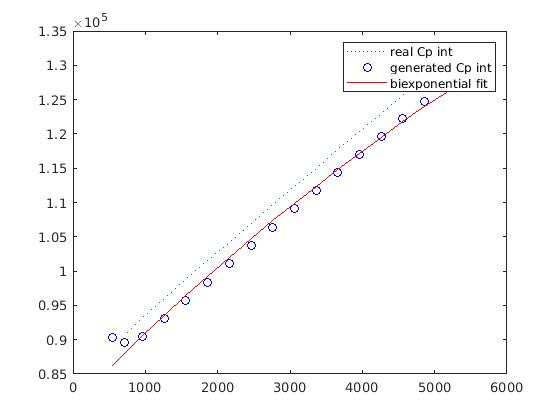
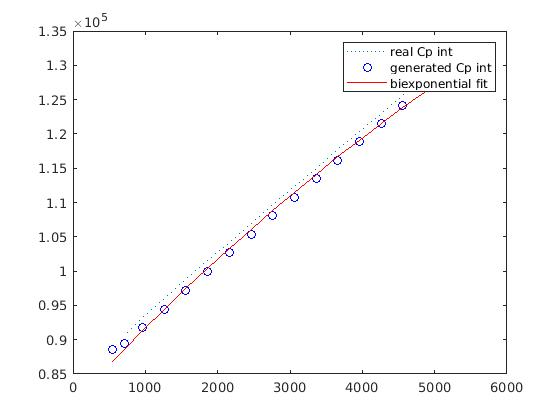
minor changes

Changed region(s): [[0.2732, 0.2167, 0.7893, 0.7738], [0.1821, 0.8048, 0.2429, 0.8667], [0.2429, 0.7738, 0.2732, 0.8048]]

diff --git a/IterativeAlgo/nihms.m b/IterativeAlgo/nihms.m
@@ -9,7 +9,7 @@ fullTAC = dlmread(TACpath, '\t', 1, 0);
 startTimes = fullTAC(:, 1);
 endTimes = fullTAC(:, 2);
 TAC = fullTAC(:, regions); %the 6 brain regions
-TACint = cumsum((endTimes - startTimes) .* TAC);
+TACint = cumsum((endTimes - startTimes) .* TAC); %integrate
 TAC = TAC(startingFrame:end, :);
 TACint = TACint(startingFrame:end, :);
 
@@ -38,11 +38,12 @@ ISAresult = ISAresult + auc - ISAresult(1);
 [iterResult, Vt] = IterativeAlgorithm(TAC, TACint, ISAresult);
 
 if showGraphs
-    %Fit curve with biexponential model
+    %Fit curve with biexponential model'
+    CpTimes = (startTimes(6:end) + endTimes(6:end)) / 2;
     times = (startTimes(startingFrame:end) + endTimes(startingFrame:end)) / 2;
 
-    [results, error] = fit2E(iterResult, times, singleBloodDraw, bloodDrawTime, ...
-        bloodDrawErrFactor);
+%     [results, error] = fit2E(iterResult, times, singleBloodDraw, bloodDrawTime, ...
+%         bloodDrawErrFactor);
 
     
     %%% Display data...
@@ -50,17 +51,17 @@ if showGraphs
     sourceCpInt = cumtrapz(sourceCp(:, 1), sourceCp(:, 2));
     % Where to start intCp calculation?
 
-    CpIntAtTimes = interp1(sourceCp(:, 1), sourceCpInt, times);
+    CpIntAtTimes = interp1(sourceCp(:, 1), sourceCpInt, CpTimes);
     
     figure;
-    plot(times, CpIntAtTimes, ':', times, ISAresult, 'o-', ...
-        times, iterResult, 'o-', times, model2E(results, times), 'o--');
+    plot(CpTimes, CpIntAtTimes, ':', times, ISAresult, 'o-', ...
+        times, iterResult, 'o-')%, times, model2E(results, times), 'o--');
     legend('real Cp result', 'ISA result', 'It Alg result', 'biexponential model');
     
     %combined graph
-    figure;
-    plot(times, CpIntAtTimes, ':',times, iterResult, 'bo', times, model2E(results, times), 'r-');
-    legend('real Cp int', 'generated Cp int', 'biexponential fit');
+%     figure;
+%     plot(times, CpIntAtTimes, ':',times, iterResult, 'bo')%, times, model2E(results, times), 'r-');
+%     legend('real Cp int', 'generated Cp int', 'biexponential fit');
 end
 
 if showText

diff --git a/IterativeAlgo/massTest.m b/IterativeAlgo/massTest.m
@@ -18,7 +18,7 @@ for sigmaInd = 1:length(sigmas)
         num2str(sigma) 'sigma.tac'];
     CpPath = ['/home/qtupker/Documents/Fields Project 11/workspace4/' ...
         'Square3EinputFunction/Cps/pabloModel_' num2str(sigma) 'sigma.smpl'];
-    Vts(:, 1, sigmaInd, 1) = nihms(TACPath, CpPath, false, false);
+    Vts(:, 1, sigmaInd, 1) = nihms(TACPath, CpPath, true, false);
     toc;
 end
 
